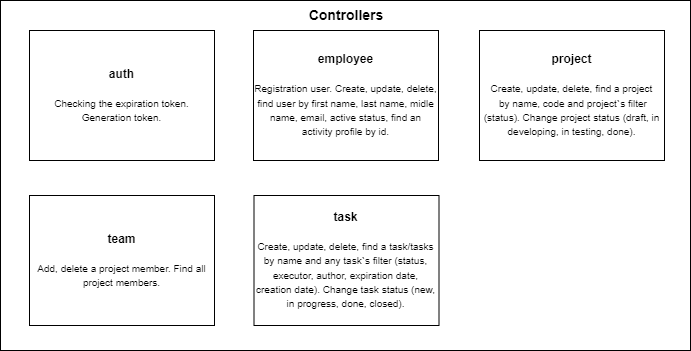
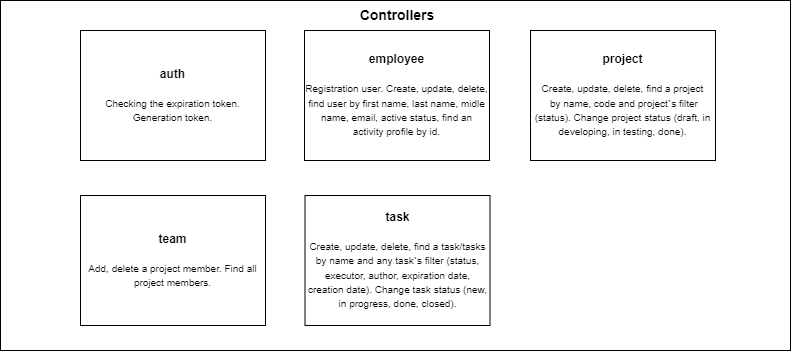
#9 corrected README.md.

diff --git a/README.md b/README.md
@@ -36,7 +36,7 @@
 * _[./doc/arch](https://github.com/PavelNaymovets/project_management_system/tree/develop/doc/arch)_ - содержит скрины диаграмм общей архитектуры проекта
 * _[./docker-compose](https://github.com/PavelNaymovets/project_management_system/blob/develop/docker-compose/docker-compose.yml)_ - содержит файл, чтобы создать окружение для разработки, демонстрации и тестирования
 * _[./docker-compose/app](https://github.com/PavelNaymovets/project_management_system/blob/develop/docker-compose/app/Dockerfile)_ - содержит файл, для создания образа программы
-* _[./flyway](https://github.com/PavelNaymovets/project_management_system/blob/develop/flyway/V1__init.sql)_ - содержит файлы инициализации структуры базы данных
+* _[./liquibase](https://github.com/PavelNaymovets/project_management_system/tree/develop/liquibase)_ - содержит файлы инициализации структуры базы данных
 
 ### Архитектура:
 Для описания архитектуры программы применены 4 диаграммы (2 UML, 2 C4).
@@ -61,12 +61,15 @@
 
 ![Image alt](https://github.com/PavelNaymovets/project_management_system/blob/develop/doc/arch/container/container%20diagram.png)
 
-Отображены контроллеры, которые поясняют основную функциональность программы более детально:
-* _./auth_ - аутентификация пользователя в системе
-* _./employee_ - управление сотрудниками компании
-* _./project_ - управление проектами и их жизненным циклом
-* _./task_ - управление задачами внутри проекта и их жизненным циклом
-* _./team_ - управление командами внутри проекта
+Отображены контроллеры, которые поясняют основную функциональность программы более детально.
+
+![Image alt](https://github.com/PavelNaymovets/project_management_system/blob/develop/doc/arch/container/controllers%20diagram.png)
+
+* _auth_ - аутентификация пользователя в системе
+* _employee_ - управление сотрудниками компании
+* _project_ - управление проектами и их жизненным циклом
+* _task_ - управление задачами внутри проекта и их жизненным циклом
+* _team_ - управление командами внутри проекта
 
 #### Deployment diagram
 
